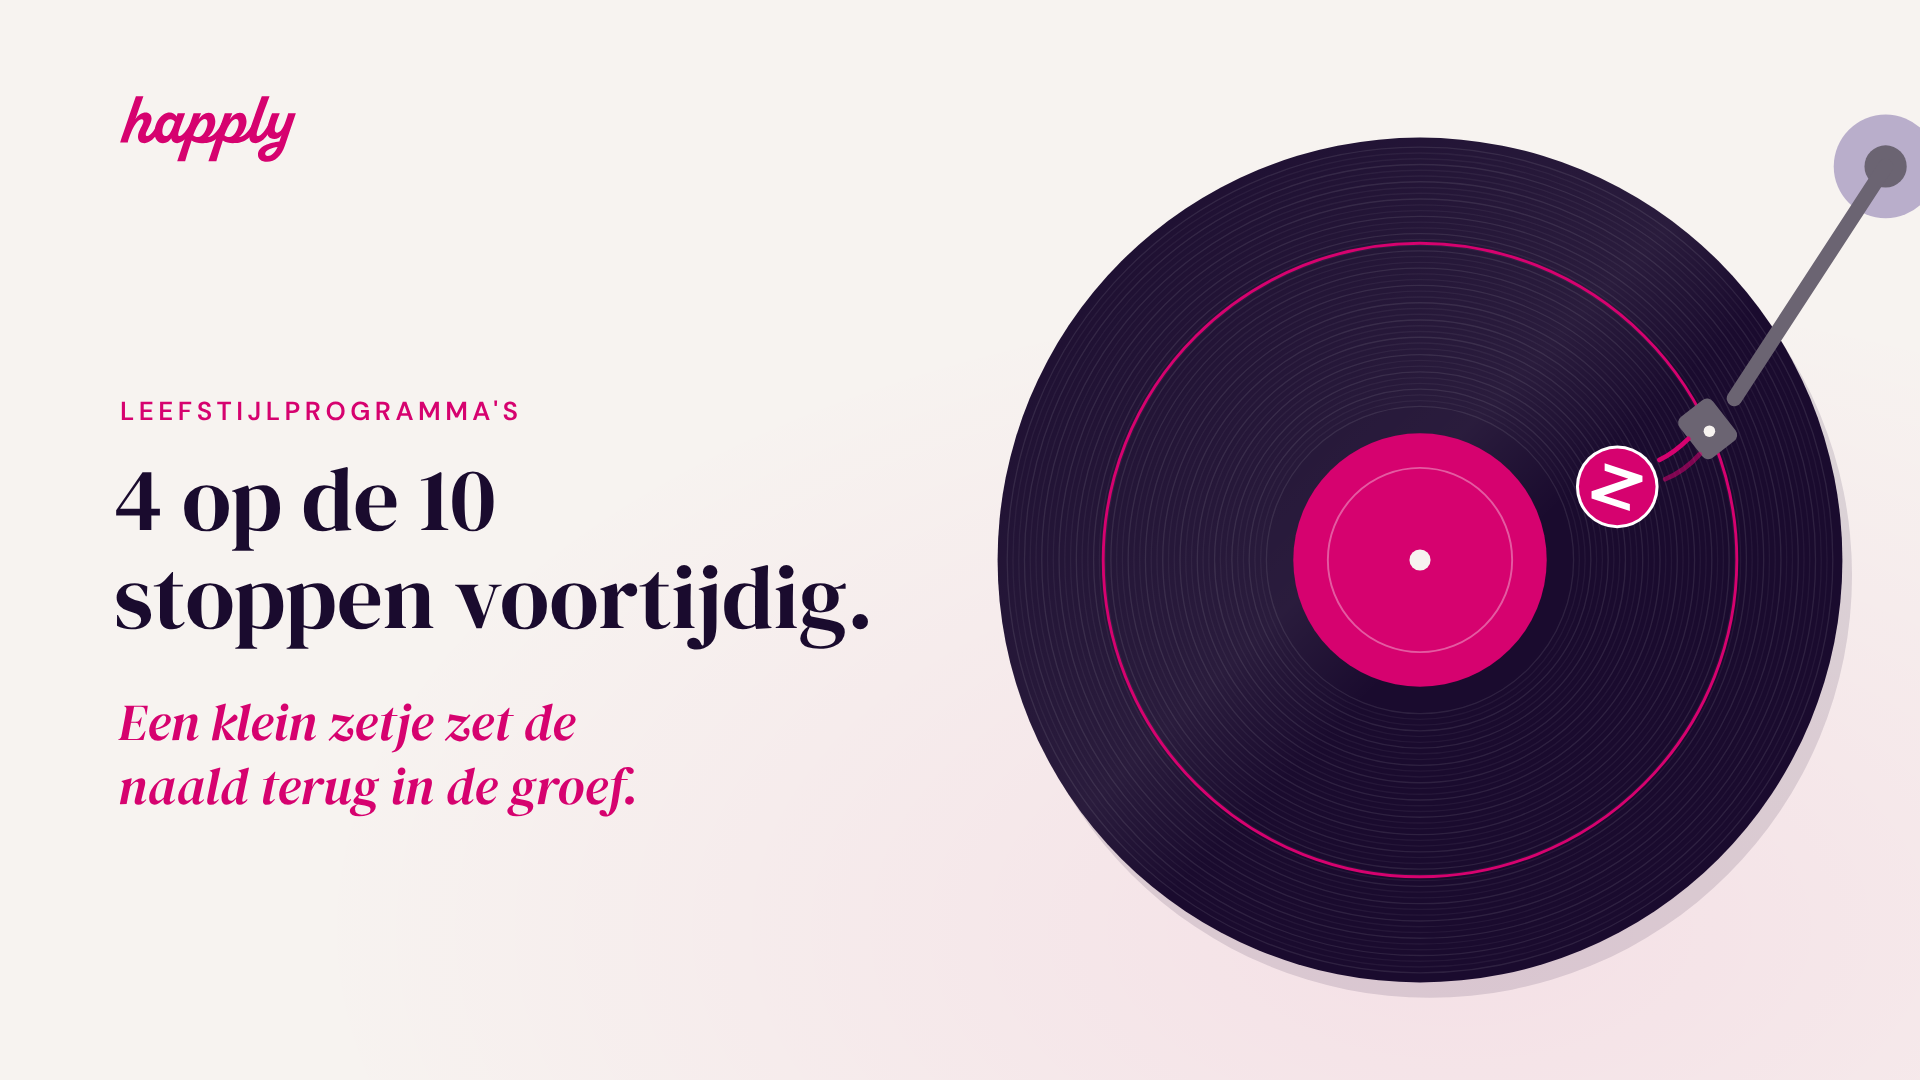
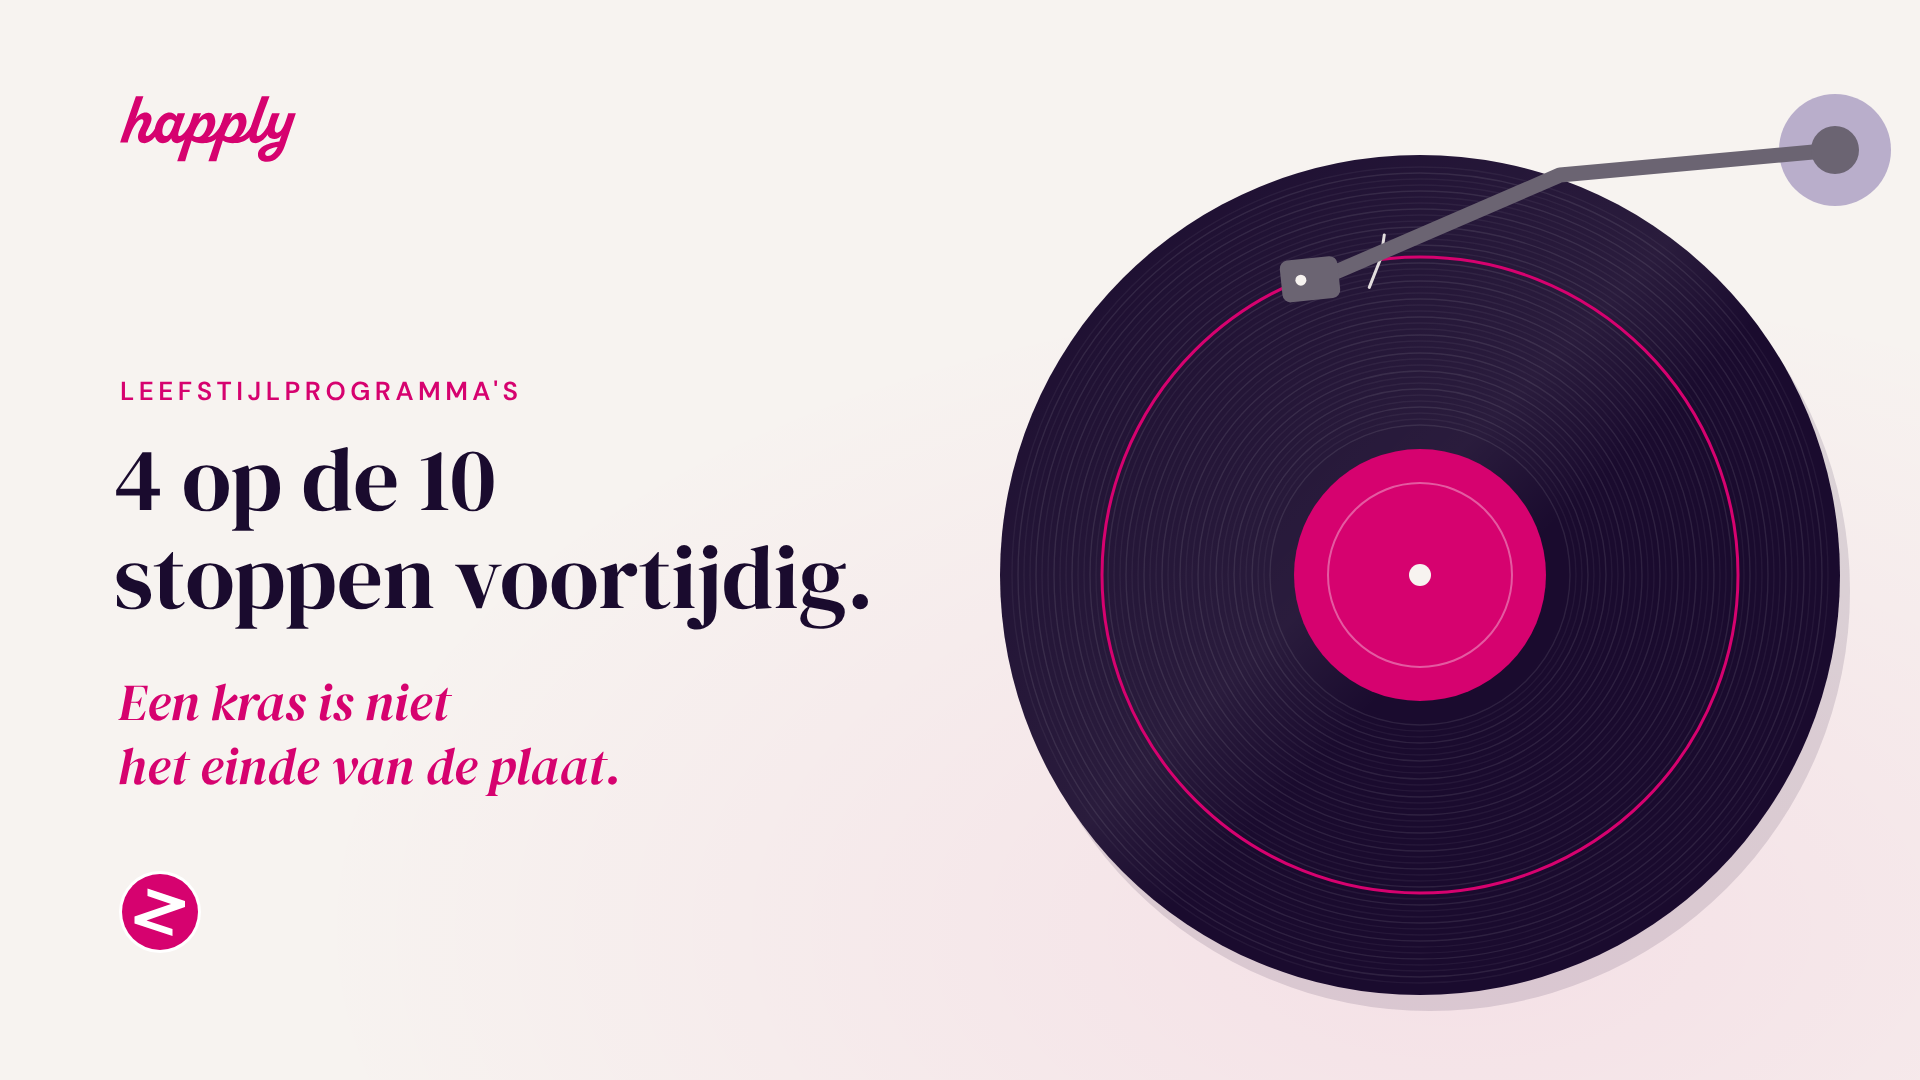
Omslag longread: kras, langere arm, Zetjes-beeldmerk onder de tekst
Claude-Session: https://claude.ai/code/session_01JMdkux2kedoPBKEw8RcLP3

diff --git a/assets/campagne/longread/omslag.html b/assets/campagne/longread/omslag.html
@@ -4,26 +4,25 @@
  <linearGradient id="shine" x1="0" y1="0" x2="1" y2="1"><stop offset="0" stop-color="#fff" stop-opacity="0"/><stop offset=".45" stop-color="#fff" stop-opacity=".07"/><stop offset=".55" stop-color="#fff" stop-opacity="0"/><stop offset="1" stop-color="#fff" stop-opacity="0"/></linearGradient>
 </defs>
 <rect width="1920" height="1080" fill="#F7F3F0"/><rect width="1920" height="1080" fill="url(#glow)"/>
-<g transform="translate(70,0) translate(1350,560) scale(0.96) translate(-1350,-560)"><circle cx="1360" cy="576" r="440" fill="#1A0B2E" opacity=".12"/>
-<circle cx="1350" cy="560" r="440" fill="#1A0B2E"/>
-<circle cx="1350" cy="560" r="160" fill="none" stroke="#ffffff" stroke-opacity="0.09" stroke-width="1.4"/><circle cx="1350" cy="560" r="166" fill="none" stroke="#ffffff" stroke-opacity="0.05" stroke-width="1.4"/><circle cx="1350" cy="560" r="172" fill="none" stroke="#ffffff" stroke-opacity="0.05" stroke-width="1.4"/><circle cx="1350" cy="560" r="178" fill="none" stroke="#ffffff" stroke-opacity="0.09" stroke-width="1.4"/><circle cx="1350" cy="560" r="184" fill="none" stroke="#ffffff" stroke-opacity="0.05" stroke-width="1.4"/><circle cx="1350" cy="560" r="190" fill="none" stroke="#ffffff" stroke-opacity="0.05" stroke-width="1.4"/><circle cx="1350" cy="560" r="196" fill="none" stroke="#ffffff" stroke-opacity="0.09" stroke-width="1.4"/><circle cx="1350" cy="560" r="202" fill="none" stroke="#ffffff" stroke-opacity="0.05" stroke-width="1.4"/><circle cx="1350" cy="560" r="208" fill="none" stroke="#ffffff" stroke-opacity="0.05" stroke-width="1.4"/><circle cx="1350" cy="560" r="214" fill="none" stroke="#ffffff" stroke-opacity="0.09" stroke-width="1.4"/><circle cx="1350" cy="560" r="220" fill="none" stroke="#ffffff" stroke-opacity="0.05" stroke-width="1.4"/><circle cx="1350" cy="560" r="226" fill="none" stroke="#ffffff" stroke-opacity="0.05" stroke-width="1.4"/><circle cx="1350" cy="560" r="232" fill="none" stroke="#ffffff" stroke-opacity="0.09" stroke-width="1.4"/><circle cx="1350" cy="560" r="238" fill="none" stroke="#ffffff" stroke-opacity="0.05" stroke-width="1.4"/><circle cx="1350" cy="560" r="244" fill="none" stroke="#ffffff" stroke-opacity="0.05" stroke-width="1.4"/><circle cx="1350" cy="560" r="250" fill="none" stroke="#ffffff" stroke-opacity="0.09" stroke-width="1.4"/><circle cx="1350" cy="560" r="256" fill="none" stroke="#ffffff" stroke-opacity="0.05" stroke-width="1.4"/><circle cx="1350" cy="560" r="262" fill="none" stroke="#ffffff" stroke-opacity="0.05" stroke-width="1.4"/><circle cx="1350" cy="560" r="268" fill="none" stroke="#ffffff" stroke-opacity="0.09" stroke-width="1.4"/><circle cx="1350" cy="560" r="274" fill="none" stroke="#ffffff" stroke-opacity="0.05" stroke-width="1.4"/><circle cx="1350" cy="560" r="280" fill="none" stroke="#ffffff" stroke-opacity="0.05" stroke-width="1.4"/><circle cx="1350" cy="560" r="286" fill="none" stroke="#ffffff" stroke-opacity="0.09" stroke-width="1.4"/><circle cx="1350" cy="560" r="292" fill="none" stroke="#ffffff" stroke-opacity="0.05" stroke-width="1.4"/><circle cx="1350" cy="560" r="298" fill="none" stroke="#ffffff" stroke-opacity="0.05" stroke-width="1.4"/><circle cx="1350" cy="560" r="304" fill="none" stroke="#ffffff" stroke-opacity="0.09" stroke-width="1.4"/><circle cx="1350" cy="560" r="310" fill="none" stroke="#ffffff" stroke-opacity="0.05" stroke-width="1.4"/><circle cx="1350" cy="560" r="316" fill="none" stroke="#ffffff" stroke-opacity="0.05" stroke-width="1.4"/><circle cx="1350" cy="560" r="322" fill="none" stroke="#ffffff" stroke-opacity="0.09" stroke-width="1.4"/><circle cx="1350" cy="560" r="328" fill="none" stroke="#ffffff" stroke-opacity="0.05" stroke-width="1.4"/><circle cx="1350" cy="560" r="334" fill="none" stroke="#ffffff" stroke-opacity="0.05" stroke-width="1.4"/><circle cx="1350" cy="560" r="340" fill="none" stroke="#ffffff" stroke-opacity="0.09" stroke-width="1.4"/><circle cx="1350" cy="560" r="346" fill="none" stroke="#ffffff" stroke-opacity="0.05" stroke-width="1.4"/><circle cx="1350" cy="560" r="352" fill="none" stroke="#ffffff" stroke-opacity="0.05" stroke-width="1.4"/><circle cx="1350" cy="560" r="358" fill="none" stroke="#ffffff" stroke-opacity="0.09" stroke-width="1.4"/><circle cx="1350" cy="560" r="364" fill="none" stroke="#ffffff" stroke-opacity="0.05" stroke-width="1.4"/><circle cx="1350" cy="560" r="370" fill="none" stroke="#ffffff" stroke-opacity="0.05" stroke-width="1.4"/><circle cx="1350" cy="560" r="376" fill="none" stroke="#ffffff" stroke-opacity="0.09" stroke-width="1.4"/><circle cx="1350" cy="560" r="382" fill="none" stroke="#ffffff" stroke-opacity="0.05" stroke-width="1.4"/><circle cx="1350" cy="560" r="388" fill="none" stroke="#ffffff" stroke-opacity="0.05" stroke-width="1.4"/><circle cx="1350" cy="560" r="394" fill="none" stroke="#ffffff" stroke-opacity="0.09" stroke-width="1.4"/><circle cx="1350" cy="560" r="400" fill="none" stroke="#ffffff" stroke-opacity="0.05" stroke-width="1.4"/><circle cx="1350" cy="560" r="406" fill="none" stroke="#ffffff" stroke-opacity="0.05" stroke-width="1.4"/><circle cx="1350" cy="560" r="412" fill="none" stroke="#ffffff" stroke-opacity="0.09" stroke-width="1.4"/><circle cx="1350" cy="560" r="418" fill="none" stroke="#ffffff" stroke-opacity="0.05" stroke-width="1.4"/><circle cx="1350" cy="560" r="424" fill="none" stroke="#ffffff" stroke-opacity="0.05" stroke-width="1.4"/><circle cx="1350" cy="560" r="430" fill="none" stroke="#ffffff" stroke-opacity="0.09" stroke-width="1.4"/>
-<circle cx="1350" cy="560" r="440" fill="url(#shine)"/>
-<circle cx="1350" cy="560" r="330" fill="none" stroke="#D6026F" stroke-width="3"/>
-<circle cx="1350" cy="560" r="132" fill="#D6026F"/>
-<circle cx="1350" cy="560" r="96" fill="none" stroke="#fff" stroke-opacity=".35" stroke-width="2"/>
-<circle cx="1350" cy="560" r="11" fill="#F7F3F0"/>
+<circle cx="1430" cy="591" r="420" fill="#1A0B2E" opacity=".12"/>
+<circle cx="1420" cy="575" r="420" fill="#1A0B2E"/>
+<circle cx="1420" cy="575" r="150" fill="none" stroke="#ffffff" stroke-opacity="0.09" stroke-width="1.4"/><circle cx="1420" cy="575" r="156" fill="none" stroke="#ffffff" stroke-opacity="0.05" stroke-width="1.4"/><circle cx="1420" cy="575" r="162" fill="none" stroke="#ffffff" stroke-opacity="0.05" stroke-width="1.4"/><circle cx="1420" cy="575" r="168" fill="none" stroke="#ffffff" stroke-opacity="0.09" stroke-width="1.4"/><circle cx="1420" cy="575" r="174" fill="none" stroke="#ffffff" stroke-opacity="0.05" stroke-width="1.4"/><circle cx="1420" cy="575" r="180" fill="none" stroke="#ffffff" stroke-opacity="0.05" stroke-width="1.4"/><circle cx="1420" cy="575" r="186" fill="none" stroke="#ffffff" stroke-opacity="0.09" stroke-width="1.4"/><circle cx="1420" cy="575" r="192" fill="none" stroke="#ffffff" stroke-opacity="0.05" stroke-width="1.4"/><circle cx="1420" cy="575" r="198" fill="none" stroke="#ffffff" stroke-opacity="0.05" stroke-width="1.4"/><circle cx="1420" cy="575" r="204" fill="none" stroke="#ffffff" stroke-opacity="0.09" stroke-width="1.4"/><circle cx="1420" cy="575" r="210" fill="none" stroke="#ffffff" stroke-opacity="0.05" stroke-width="1.4"/><circle cx="1420" cy="575" r="216" fill="none" stroke="#ffffff" stroke-opacity="0.05" stroke-width="1.4"/><circle cx="1420" cy="575" r="222" fill="none" stroke="#ffffff" stroke-opacity="0.09" stroke-width="1.4"/><circle cx="1420" cy="575" r="228" fill="none" stroke="#ffffff" stroke-opacity="0.05" stroke-width="1.4"/><circle cx="1420" cy="575" r="234" fill="none" stroke="#ffffff" stroke-opacity="0.05" stroke-width="1.4"/><circle cx="1420" cy="575" r="240" fill="none" stroke="#ffffff" stroke-opacity="0.09" stroke-width="1.4"/><circle cx="1420" cy="575" r="246" fill="none" stroke="#ffffff" stroke-opacity="0.05" stroke-width="1.4"/><circle cx="1420" cy="575" r="252" fill="none" stroke="#ffffff" stroke-opacity="0.05" stroke-width="1.4"/><circle cx="1420" cy="575" r="258" fill="none" stroke="#ffffff" stroke-opacity="0.09" stroke-width="1.4"/><circle cx="1420" cy="575" r="264" fill="none" stroke="#ffffff" stroke-opacity="0.05" stroke-width="1.4"/><circle cx="1420" cy="575" r="270" fill="none" stroke="#ffffff" stroke-opacity="0.05" stroke-width="1.4"/><circle cx="1420" cy="575" r="276" fill="none" stroke="#ffffff" stroke-opacity="0.09" stroke-width="1.4"/><circle cx="1420" cy="575" r="282" fill="none" stroke="#ffffff" stroke-opacity="0.05" stroke-width="1.4"/><circle cx="1420" cy="575" r="288" fill="none" stroke="#ffffff" stroke-opacity="0.05" stroke-width="1.4"/><circle cx="1420" cy="575" r="294" fill="none" stroke="#ffffff" stroke-opacity="0.09" stroke-width="1.4"/><circle cx="1420" cy="575" r="300" fill="none" stroke="#ffffff" stroke-opacity="0.05" stroke-width="1.4"/><circle cx="1420" cy="575" r="306" fill="none" stroke="#ffffff" stroke-opacity="0.05" stroke-width="1.4"/><circle cx="1420" cy="575" r="312" fill="none" stroke="#ffffff" stroke-opacity="0.09" stroke-width="1.4"/><circle cx="1420" cy="575" r="318" fill="none" stroke="#ffffff" stroke-opacity="0.05" stroke-width="1.4"/><circle cx="1420" cy="575" r="324" fill="none" stroke="#ffffff" stroke-opacity="0.05" stroke-width="1.4"/><circle cx="1420" cy="575" r="330" fill="none" stroke="#ffffff" stroke-opacity="0.09" stroke-width="1.4"/><circle cx="1420" cy="575" r="336" fill="none" stroke="#ffffff" stroke-opacity="0.05" stroke-width="1.4"/><circle cx="1420" cy="575" r="342" fill="none" stroke="#ffffff" stroke-opacity="0.05" stroke-width="1.4"/><circle cx="1420" cy="575" r="348" fill="none" stroke="#ffffff" stroke-opacity="0.09" stroke-width="1.4"/><circle cx="1420" cy="575" r="354" fill="none" stroke="#ffffff" stroke-opacity="0.05" stroke-width="1.4"/><circle cx="1420" cy="575" r="360" fill="none" stroke="#ffffff" stroke-opacity="0.05" stroke-width="1.4"/><circle cx="1420" cy="575" r="366" fill="none" stroke="#ffffff" stroke-opacity="0.09" stroke-width="1.4"/><circle cx="1420" cy="575" r="372" fill="none" stroke="#ffffff" stroke-opacity="0.05" stroke-width="1.4"/><circle cx="1420" cy="575" r="378" fill="none" stroke="#ffffff" stroke-opacity="0.05" stroke-width="1.4"/><circle cx="1420" cy="575" r="384" fill="none" stroke="#ffffff" stroke-opacity="0.09" stroke-width="1.4"/><circle cx="1420" cy="575" r="390" fill="none" stroke="#ffffff" stroke-opacity="0.05" stroke-width="1.4"/><circle cx="1420" cy="575" r="396" fill="none" stroke="#ffffff" stroke-opacity="0.05" stroke-width="1.4"/><circle cx="1420" cy="575" r="402" fill="none" stroke="#ffffff" stroke-opacity="0.09" stroke-width="1.4"/><circle cx="1420" cy="575" r="408" fill="none" stroke="#ffffff" stroke-opacity="0.05" stroke-width="1.4"/>
+<circle cx="1420" cy="575" r="420" fill="url(#shine)"/>
+<circle cx="1420" cy="575" r="318" fill="none" stroke="#D6026F" stroke-width="3"/>
+<path d="M1369.3,287.4 L1380.8,258.2 L1384.3,234.9" fill="none" stroke="#F7F3F0" stroke-opacity=".9" stroke-width="3" stroke-linecap="round" stroke-linejoin="round"/>
+<circle cx="1420" cy="575" r="126" fill="#D6026F"/>
+<circle cx="1420" cy="575" r="92" fill="none" stroke="#fff" stroke-opacity=".35" stroke-width="2"/>
+<circle cx="1420" cy="575" r="11" fill="#F7F3F0"/>
 <!-- toonarm -->
-<circle cx="1835" cy="150" r="54" fill="#B9AECB"/><circle cx="1835" cy="150" r="22" fill="#6B6472"/>
-<line x1="1835" y1="150" x2="1677.4700010220583" y2="391.77690778498595" stroke="#6B6472" stroke-width="16" stroke-linecap="round"/>
-<g transform="translate(1651.4700010220583,425.77690778498595) rotate(-38)"><rect x="-22" y="-30" width="44" height="54" rx="8" fill="#6B6472"/></g>
-<circle cx="1651.4700010220583" cy="425.77690778498595" r="6" fill="#F7F3F0"/>
-<!-- het zetje -->
-<g transform="translate(1555.4700010220583,483.77690778498595) scale(1.05)"><circle r="41" fill="#fff"/><circle r="38" fill="#D6026F"/><path d="M-12.5,-23.5 L25.0,-11.0 L25.0,-5.0 L-13.5,8.5 L12.5,17.0 L12.5,24.0 L-25.5,11.5 L-25.5,4.5 L11.0,-8.0 L-12.5,-16.0 Z" fill="#fff"/></g>
-<path d="M1599.4700010220583,455.77690778498595 q16,-8 30,-22" fill="none" stroke="#D6026F" stroke-width="5" stroke-linecap="round"/>
-<path d="M1605.4700010220583,475.77690778498595 q20,-8 36,-26" fill="none" stroke="#D6026F" stroke-width="5" stroke-linecap="round" opacity=".55"/>
+<circle cx="1835" cy="150" r="56" fill="#B9AECB"/>
+<path d="M1835,150 L1560,175 L1330.87510329374,274.1555342477616" fill="none" stroke="#6B6472" stroke-width="15" stroke-linecap="round" stroke-linejoin="round"/>
+<circle cx="1835" cy="150" r="24" fill="#6B6472"/>
+<g transform="translate(1310.87510329374,278.1555342477616) rotate(-6)"><rect x="-30" y="-20" width="58" height="42" rx="8" fill="#6B6472"/></g>
+<circle cx="1300.87510329374" cy="280.1555342477616" r="5.5" fill="#F7F3F0"/>
 <!-- tekst -->
-</g><svg x="120" y="96" height="66" width="176" viewBox="49 73 719 269" role="img" aria-label="Happly"><g fill="#D6026F"><path d="M122.46,238.84c0-23.1,22.2-48.6,22.2-62.7,0-4.8-1.8-8.1-7.2-8.1-24.3,0-47.7,61.2-56.7,94.2h-31.2c17.7-51.9,43.2-126.9,64.5-188.4h30.6c-11.4,31.5-22.2,62.7-32.7,94.2,10.8-18.3,27-27.6,41.7-27.6s24,9.9,24.3,24.6c.6,22.2-23.7,52.2-23.7,65.1,0,3.9,2.4,6.3,6,6.3,12,0,30.3-23.7,45.6-54.3l13.2,14.4c-11.4,25.5-39.6,68.7-69.3,68.7-18,0-27.3-11.1-27.3-26.4Z"/><path d="M351.06,196.54c-11.4,25.5-39.6,68.7-68.4,68.7-14.4,0-22.5-9.9-24.3-20.1-6.6,10.5-17.4,20.1-34.2,20.1-20.7,0-33.9-17.1-33.9-43.5,0-40.2,27.9-81.3,61.8-81.3,12,0,23.7,7.5,28.2,15.6l4.2-12.6h30.6c-26.4,72-34.2,93-22.8,93s30.3-22.8,45.6-54.3l13.2,14.4ZM273.06,177.64c-3.9-5.7-10.5-9.9-18-9.9-19.8,0-33,27.9-33,51,0,9.6,4.2,17.7,13.8,17.7,13.2,0,25.2-19.2,37.2-58.8Z"/><path d="M282.66,338.74c22.5-64.8,44.7-130.8,66.9-195.3h30.6l-10.2,25.5c9.6-16.2,24.9-28.2,41.4-28.2s27,13.2,27,36.6c0,20.7-13.5,51.6-30.9,63.3,20.1-2.1,41.7-22.2,57-58.8l13.2,16.5c-26.4,60.6-59.7,67.2-94.8,67.2-15.3,0-30.3-3-41.4-10.8-7.8,22.2-16.5,51.3-26.4,84h-32.4ZM406.26,183.04c0-9.9-3.6-16.2-11.1-16.2-12-.3-29.4,18-47.1,66.3,4.2,4.5,11.4,7.5,19.8,7.5,19.8,0,38.4-34.2,38.4-57.6Z"/><path d="M410.15,338.74c22.5-64.8,44.7-130.8,66.9-195.3h30.6l-10.2,25.5c9.6-16.2,24.9-28.2,41.4-28.2s27,13.2,27,36.6c0,20.7-13.5,51.6-30.9,63.3,20.1-2.1,41.7-22.2,57-58.8l13.2,16.5c-26.4,60.6-59.7,67.2-94.8,67.2-15.3,0-30.3-3-41.4-10.8-7.8,22.2-16.5,51.3-26.4,84h-32.4ZM533.75,183.04c0-9.9-3.6-16.2-11.1-16.2-12-.3-29.4,18-47.1,66.3,4.2,4.5,11.4,7.5,19.8,7.5,19.8,0,38.4-34.2,38.4-57.6Z"/><path d="M672.05,196.54c-11.1,25.5-39.3,68.7-68.4,68.7s-33.3-23.4-16.8-75.6c9.6-29.4,26.4-74.4,41.4-115.8h31.8c-19.2,49.8-35.1,95.1-43.5,120.6-11.1,32.7-12.3,42-3.3,42,11.7,0,30.6-22.8,45.9-54.3l12.9,14.4Z"/><path d="M612.65,312.64c0-35.7,49.2-48.9,87.3-54l9-25.8c-6,8.7-17.7,15.3-29.4,15.3-42,0-32.4-48.3-9.3-104.7h31.5c-14.7,36-30.9,78.9-10.8,78.9,22.5,0,34.5-45.6,45.3-78.9h31.2c-15.9,45.9-28.8,85.2-44.7,131.4-14.7,42.6-40.5,66.9-72.6,66.9-24.9,0-37.5-13.5-37.5-29.1ZM692.75,281.14c-22.2,2.1-50.7,13.2-50.7,27.3,0,5.1,3.3,9,10.8,9,13.8,0,28.5-10.5,39.9-36.3Z"/></g></svg>
-<text x="120" y="420" font-family="DM Sans" font-weight="600" font-size="26" letter-spacing="4.5" fill="#D6026F">LEEFSTIJLPROGRAMMA'S</text>
-<text font-family="DM Serif Display" font-size="90" fill="#1A0B2E"><tspan x="114" y="530">4 op de 10</tspan><tspan x="114" y="628">stoppen voortijdig.</tspan></text>
-<text font-family="DM Serif Display" font-style="italic" font-size="52" fill="#D6026F"><tspan x="118" y="740">Een klein zetje zet de</tspan><tspan x="118" y="804">naald terug in de groef.</tspan></text>
+<svg x="120" y="96" height="66" width="176" viewBox="49 73 719 269" role="img" aria-label="Happly"><g fill="#D6026F"><path d="M122.46,238.84c0-23.1,22.2-48.6,22.2-62.7,0-4.8-1.8-8.1-7.2-8.1-24.3,0-47.7,61.2-56.7,94.2h-31.2c17.7-51.9,43.2-126.9,64.5-188.4h30.6c-11.4,31.5-22.2,62.7-32.7,94.2,10.8-18.3,27-27.6,41.7-27.6s24,9.9,24.3,24.6c.6,22.2-23.7,52.2-23.7,65.1,0,3.9,2.4,6.3,6,6.3,12,0,30.3-23.7,45.6-54.3l13.2,14.4c-11.4,25.5-39.6,68.7-69.3,68.7-18,0-27.3-11.1-27.3-26.4Z"/><path d="M351.06,196.54c-11.4,25.5-39.6,68.7-68.4,68.7-14.4,0-22.5-9.9-24.3-20.1-6.6,10.5-17.4,20.1-34.2,20.1-20.7,0-33.9-17.1-33.9-43.5,0-40.2,27.9-81.3,61.8-81.3,12,0,23.7,7.5,28.2,15.6l4.2-12.6h30.6c-26.4,72-34.2,93-22.8,93s30.3-22.8,45.6-54.3l13.2,14.4ZM273.06,177.64c-3.9-5.7-10.5-9.9-18-9.9-19.8,0-33,27.9-33,51,0,9.6,4.2,17.7,13.8,17.7,13.2,0,25.2-19.2,37.2-58.8Z"/><path d="M282.66,338.74c22.5-64.8,44.7-130.8,66.9-195.3h30.6l-10.2,25.5c9.6-16.2,24.9-28.2,41.4-28.2s27,13.2,27,36.6c0,20.7-13.5,51.6-30.9,63.3,20.1-2.1,41.7-22.2,57-58.8l13.2,16.5c-26.4,60.6-59.7,67.2-94.8,67.2-15.3,0-30.3-3-41.4-10.8-7.8,22.2-16.5,51.3-26.4,84h-32.4ZM406.26,183.04c0-9.9-3.6-16.2-11.1-16.2-12-.3-29.4,18-47.1,66.3,4.2,4.5,11.4,7.5,19.8,7.5,19.8,0,38.4-34.2,38.4-57.6Z"/><path d="M410.15,338.74c22.5-64.8,44.7-130.8,66.9-195.3h30.6l-10.2,25.5c9.6-16.2,24.9-28.2,41.4-28.2s27,13.2,27,36.6c0,20.7-13.5,51.6-30.9,63.3,20.1-2.1,41.7-22.2,57-58.8l13.2,16.5c-26.4,60.6-59.7,67.2-94.8,67.2-15.3,0-30.3-3-41.4-10.8-7.8,22.2-16.5,51.3-26.4,84h-32.4ZM533.75,183.04c0-9.9-3.6-16.2-11.1-16.2-12-.3-29.4,18-47.1,66.3,4.2,4.5,11.4,7.5,19.8,7.5,19.8,0,38.4-34.2,38.4-57.6Z"/><path d="M672.05,196.54c-11.1,25.5-39.3,68.7-68.4,68.7s-33.3-23.4-16.8-75.6c9.6-29.4,26.4-74.4,41.4-115.8h31.8c-19.2,49.8-35.1,95.1-43.5,120.6-11.1,32.7-12.3,42-3.3,42,11.7,0,30.6-22.8,45.9-54.3l12.9,14.4Z"/><path d="M612.65,312.64c0-35.7,49.2-48.9,87.3-54l9-25.8c-6,8.7-17.7,15.3-29.4,15.3-42,0-32.4-48.3-9.3-104.7h31.5c-14.7,36-30.9,78.9-10.8,78.9,22.5,0,34.5-45.6,45.3-78.9h31.2c-15.9,45.9-28.8,85.2-44.7,131.4-14.7,42.6-40.5,66.9-72.6,66.9-24.9,0-37.5-13.5-37.5-29.1ZM692.75,281.14c-22.2,2.1-50.7,13.2-50.7,27.3,0,5.1,3.3,9,10.8,9,13.8,0,28.5-10.5,39.9-36.3Z"/></g></svg>
+<text x="120" y="400" font-family="DM Sans" font-weight="600" font-size="26" letter-spacing="4.5" fill="#D6026F">LEEFSTIJLPROGRAMMA'S</text>
+<text font-family="DM Serif Display" font-size="90" fill="#1A0B2E"><tspan x="114" y="510">4 op de 10</tspan><tspan x="114" y="608">stoppen voortijdig.</tspan></text>
+<text font-family="DM Serif Display" font-style="italic" font-size="52" fill="#D6026F"><tspan x="118" y="720">Een kras is niet</tspan><tspan x="118" y="784">het einde van de plaat.</tspan></text>
+<g transform="translate(160,912)"><circle r="41" fill="#fff"/><circle r="38" fill="#D6026F"/><path d="M-12.5,-23.5 L25.0,-11.0 L25.0,-5.0 L-13.5,8.5 L12.5,17.0 L12.5,24.0 L-25.5,11.5 L-25.5,4.5 L11.0,-8.0 L-12.5,-16.0 Z" fill="#fff"/></g>
 </svg></body></html>
